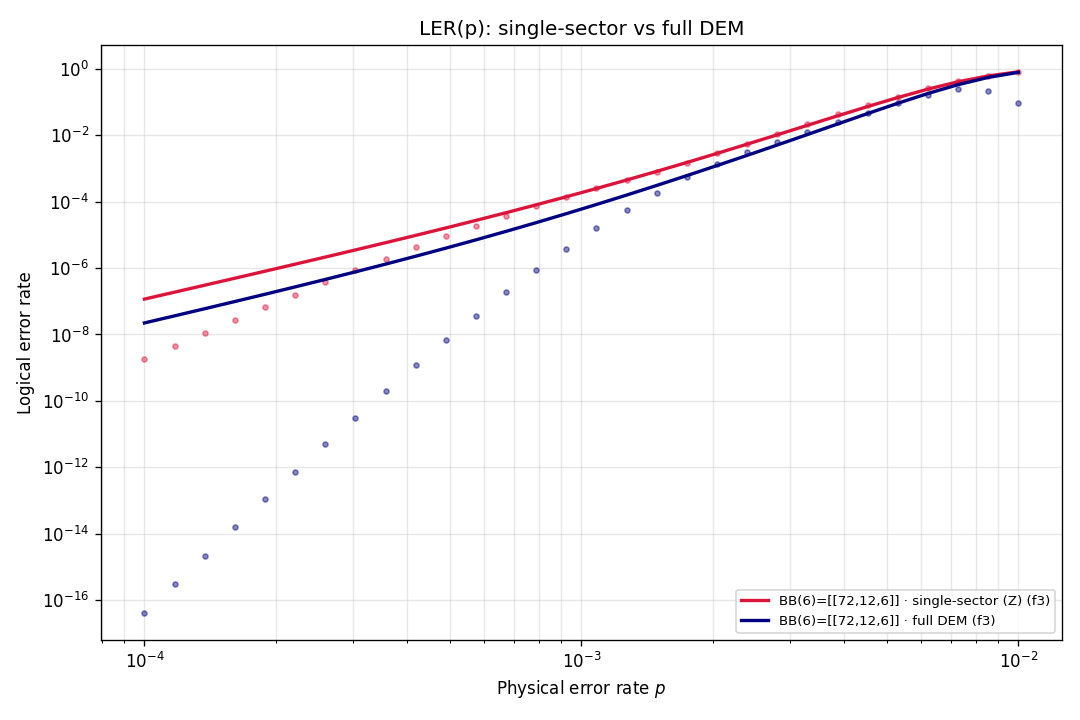
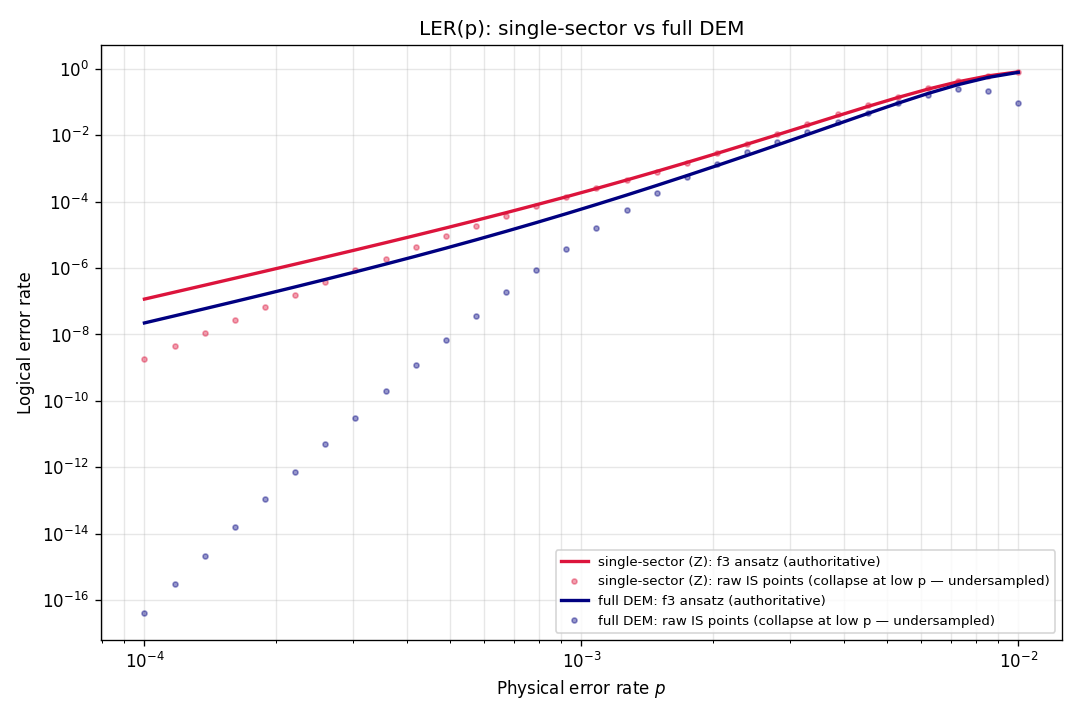
Label the comparison plot's points (they were unlabeled raw IS points)
fig_compare_ler overlaid the f3 ansatz lines (labeled) plus the raw IS reweighted points
(unlabeled) — so the dots that collapse at low p looked unidentified and were easily mistaken
for splitting points. Now both the ansatz lines ("authoritative") and the IS points ("raw ...
collapse at low p — undersampled") are labeled per representation. The splitting points remain
on the per-representation LER plots only.

Changed region(s): [[0.5194, 0.7639, 0.9778, 0.8861]]

diff --git a/notebooks/bb_code/bb6_report.py b/notebooks/bb_code/bb6_report.py
@@ -372,8 +372,9 @@ def fig_compare_ler(R_single, R_full, ax=None):
         _, ax = plt.subplots(figsize=(8.6, 5.6))
     for R, col, tag in ((R_single, "crimson", "single-sector (Z)"), (R_full, "navy", "full DEM")):
         ax.plot(R["p_grid"], R["LER"]["f3"], "-", color=col, lw=2,
-                label=f"{R['meta']['code_label']} · {tag} (f3)")
-        ax.plot(R["isp"], R["isL"], "o", color=col, ms=3, alpha=0.45)
+                label=f"{tag}: f3 ansatz (authoritative)")
+        ax.plot(R["isp"], R["isL"], "o", color=col, ms=3, alpha=0.4,
+                label=f"{tag}: raw IS points (collapse at low p — undersampled)")
     ax.set_xscale("log"); ax.set_yscale("log")
     ax.set_xlabel(r"Physical error rate $p$"); ax.set_ylabel("Logical error rate")
     ax.set_title("LER(p): single-sector vs full DEM")